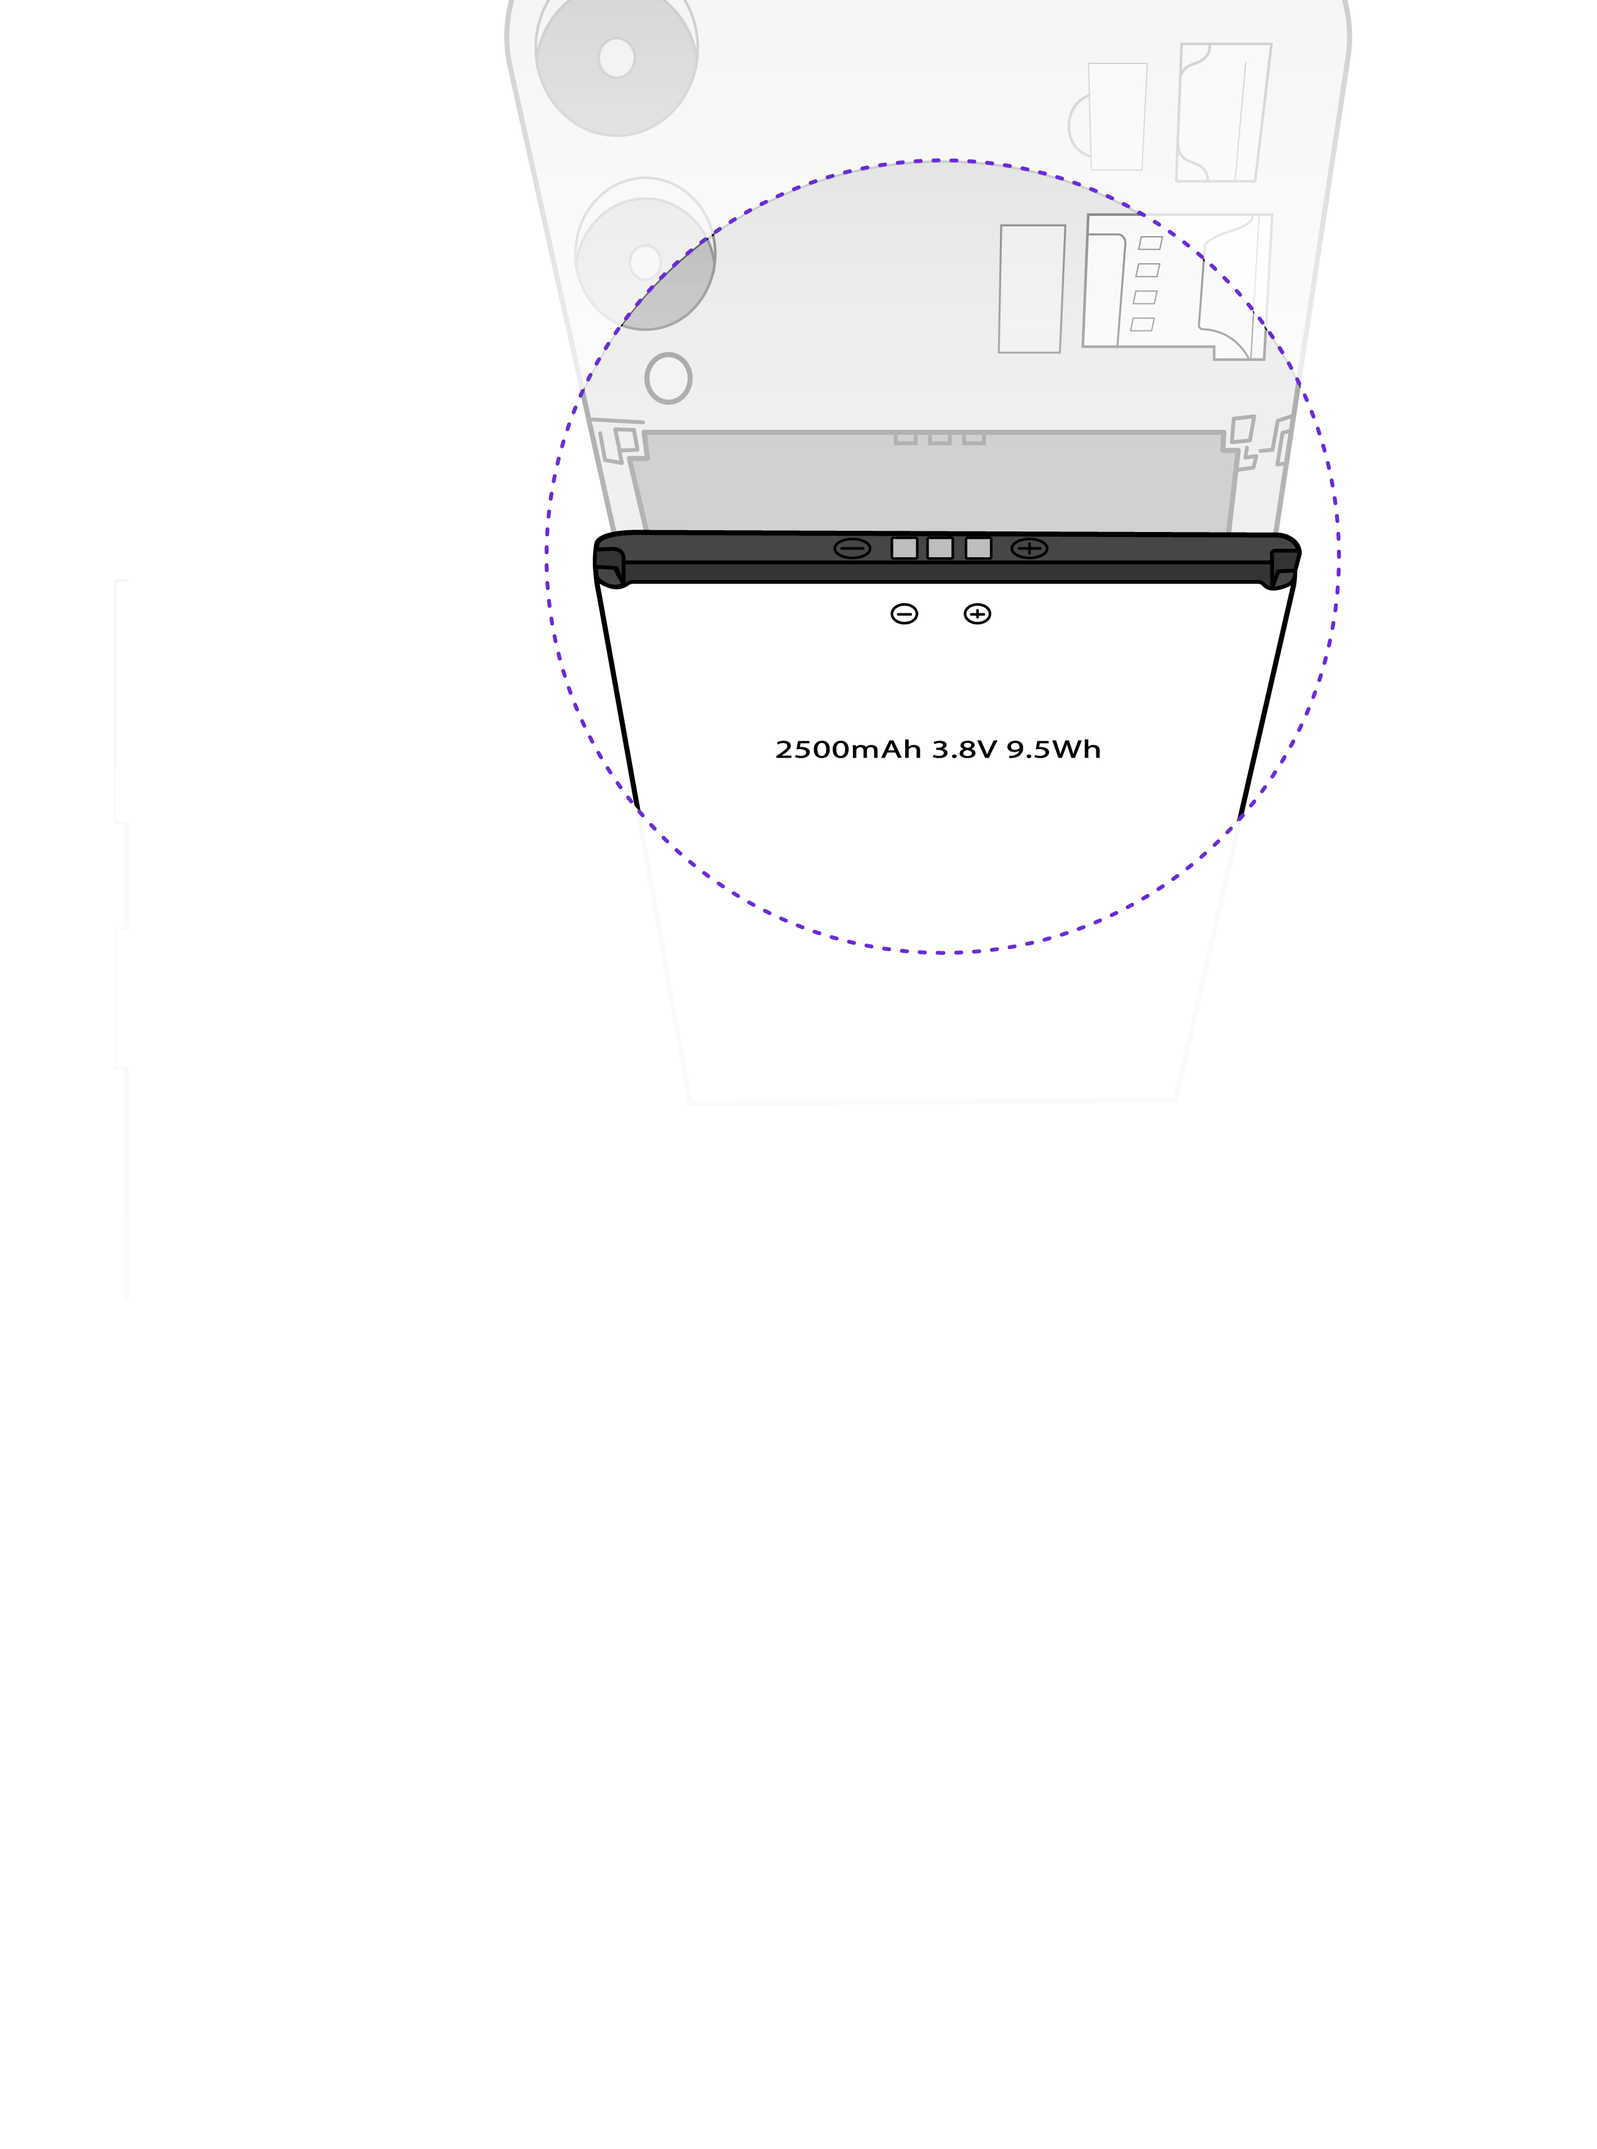
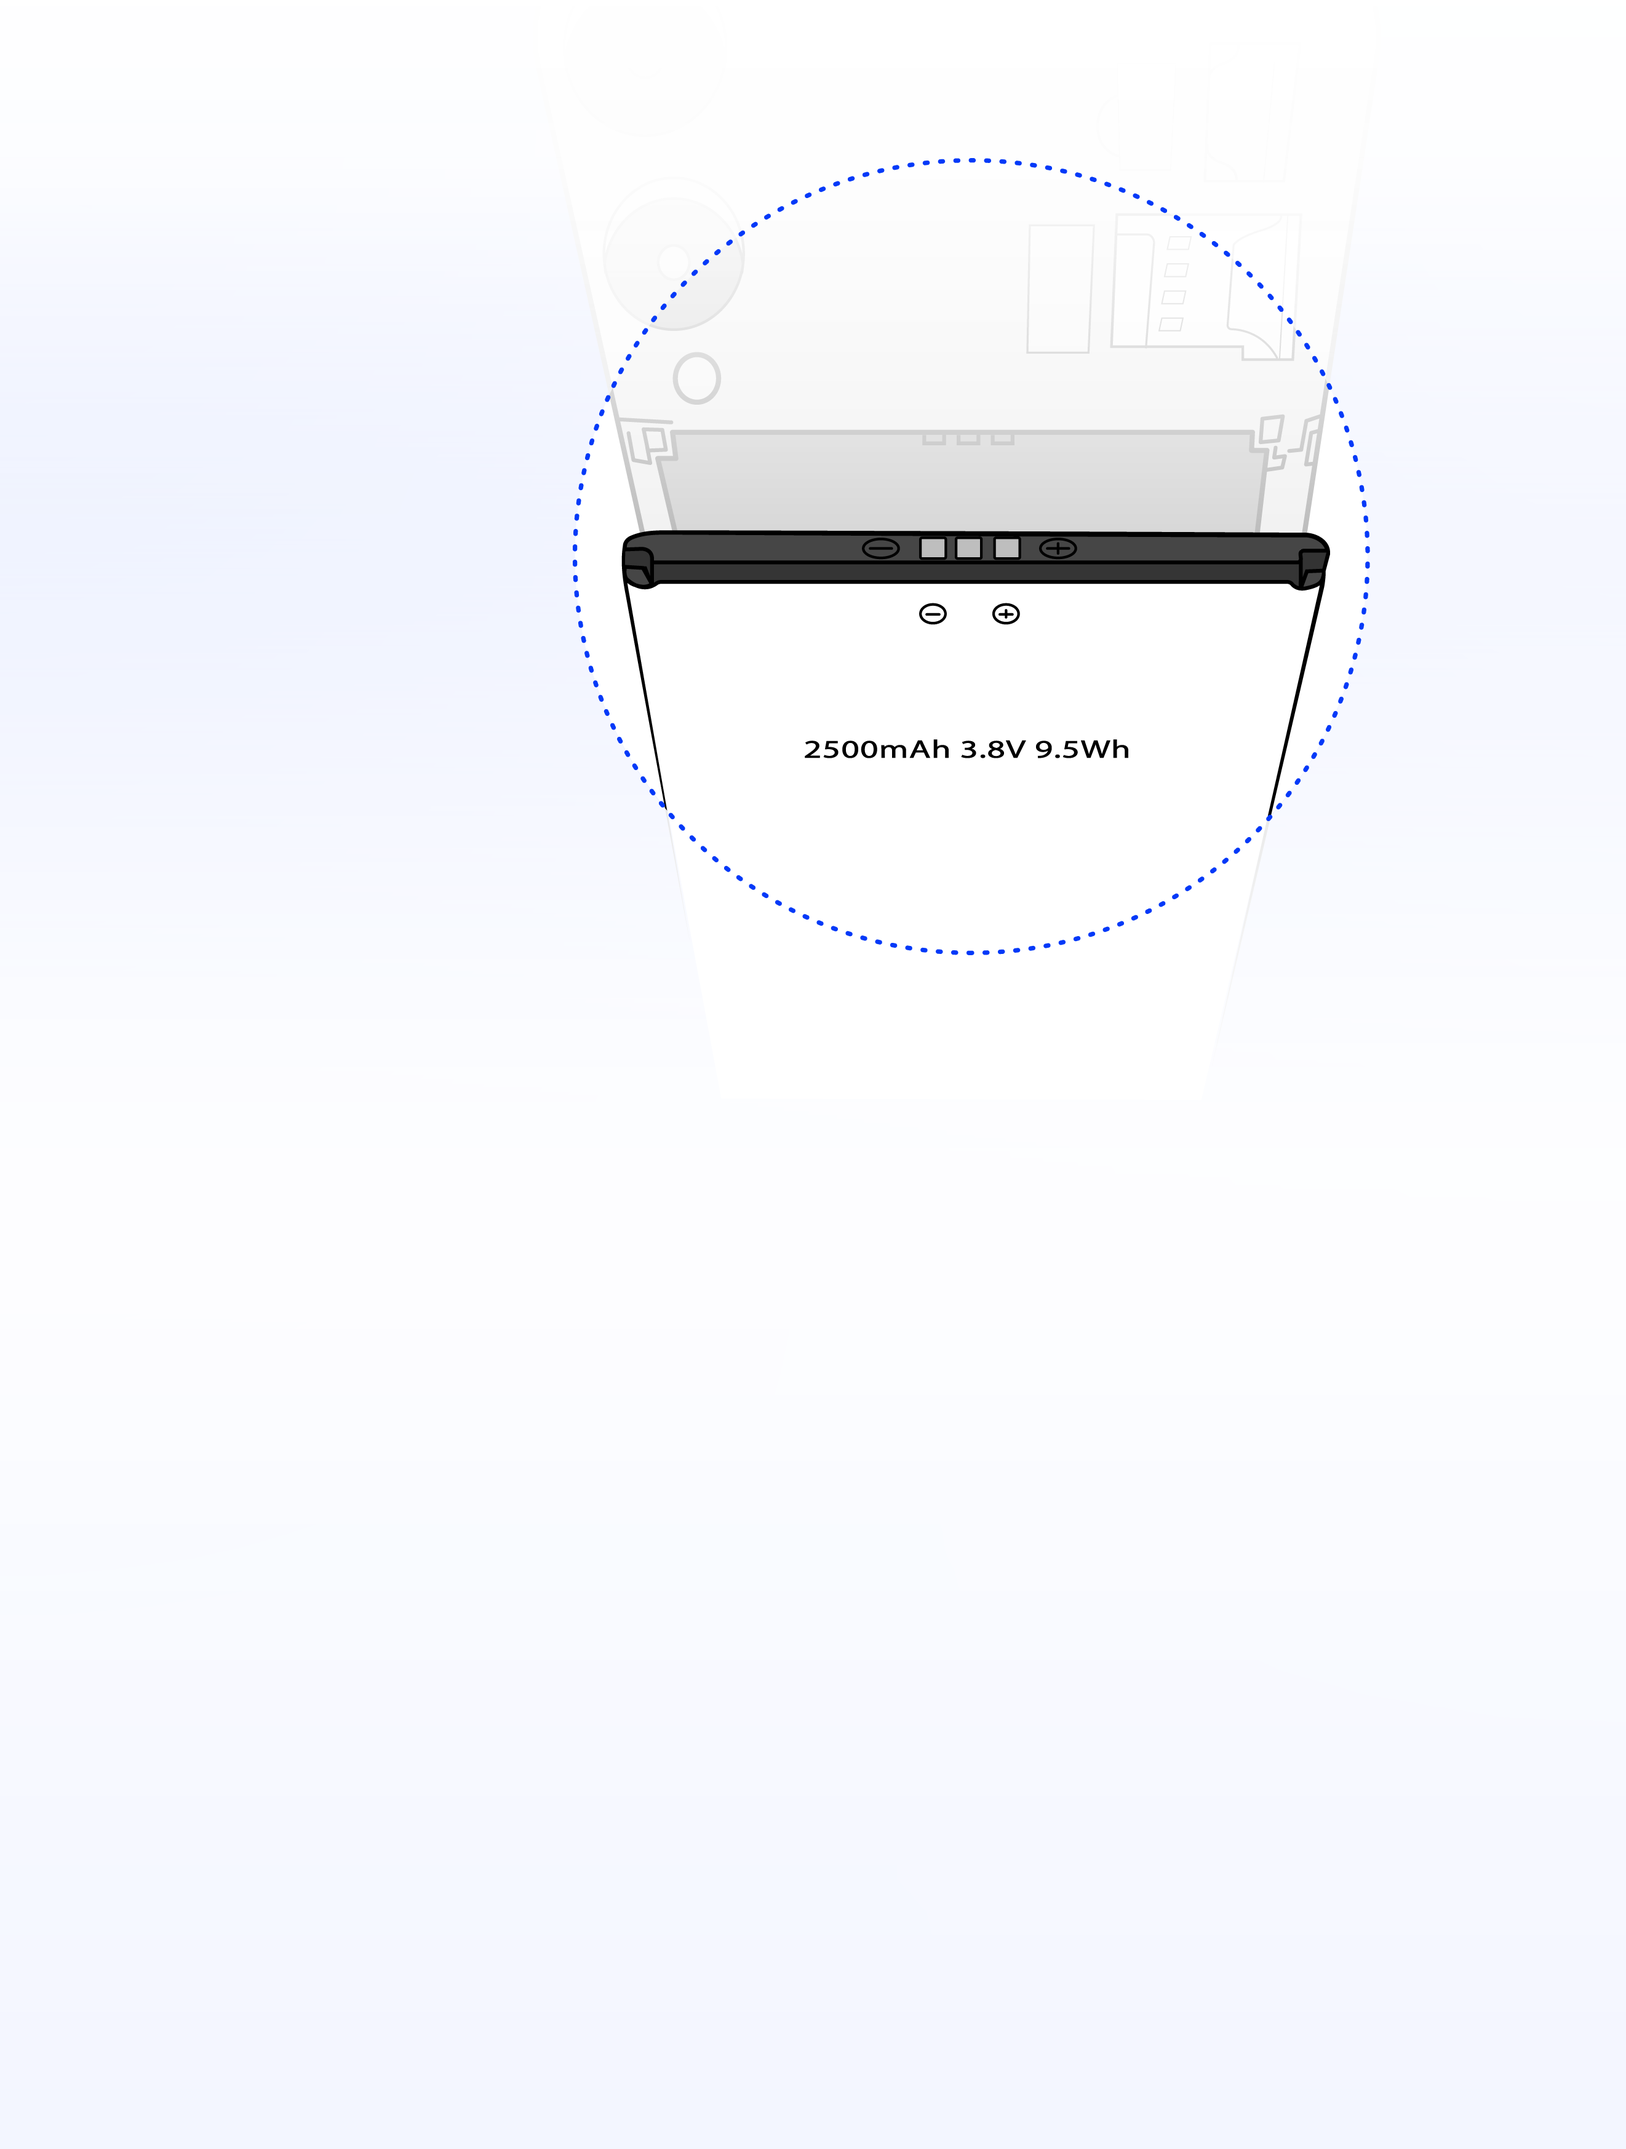
update features section content

diff --git a/css/style.css b/css/style.css
@@ -604,7 +604,7 @@ a {
 
 .drawing-container{
     position: relative;
-    height: 850px;
+    height: 1000px;
     margin-bottom: 100px;
     display: flex;
     justify-content: center;
@@ -613,24 +613,15 @@ a {
 .image-wrapper {
     position: relative; 
     display: inline-block;
-    height: 950px;
+    height: 1000px;
 }
 
 .engineering-drawing{
     height: 100%;
-    /* width: 100%; */
     display: block;
-}
-
-.circle {
-    position: absolute; /* Place the circle on the image */
-    width: 100px; /* Diameter of the circle */
-    height: 100px;
-    background-color: rgba(0, 0, 255, 0.5); /* Semi-transparent red */
-    border-radius: 50%; /* Makes it a perfect circle */
-    top: 5%; /* Adjust the vertical position relative to the image */
-    left: 48%; /* Adjust the horizontal position relative to the image */
-    border: none; /* Optional border */
+    /* margin: 0;
+    padding: 0;
+    border: none; */
 }
 
 .circle-svg {
@@ -643,4 +634,20 @@ a {
 
 .hover-content {
     display: none;
+}
+
+.hover-circle {
+    cursor: pointer;
+}
+
+.text-overlay {
+    position: absolute;
+    top: 50%;
+    left: 100px;
+    padding: 5px;
+}
+
+.feature-title{
+    font-size: 32px;
+    font-weight: 600;
 }

diff --git a/northlight.php b/northlight.php
@@ -65,7 +65,7 @@
                     <div class="row">
                         <div class="col-4 col-md-2 col-lg-2 col-xl-2 p-0">
                             <div class="highlight-wrap">
-                                <img src="img/phone/icons/icons_size.svg" alt="screen" class="highlight-icon">
+                                <img src="img/phone/icons/icons_size.svg" alt="android" class="highlight-icon">
                                 <div class="highlight-text">5.45" LCD</div>
                                 <div class="highlight-text">480 x 960</div>
                             </div>
@@ -111,41 +111,151 @@
         </div>
     </div>
 
-    <div style="padding-top: 30px;"></div>
+    <div style="padding-top: 50px;"></div>
 
     <div class="custom-container">
         <div class="drawing-container">
             <div class="image-wrapper">
                 <img src="img/phone/xray.png" alt="engineering drawing" class="engineering-drawing">
-                <!-- <div class="circle"></div> -->
-                <svg class="circle-svg" xmlns="http://www.w3.org/2000/svg" viewBox="0 0 100 100">
-                    <circle class="hover-circle" data-target="sim-card" cx="38" cy="35.5" r="3" fill="rgba(0, 0, 255, 0.2)" />
-                    <circle class="hover-circle" data-target="sd-card" cx="70" cy="20" r="10" fill="rgba(0, 0, 255, 0.2)" />
-                    <circle class="hover-circle" data-target="wifi" cx="50" cy="50" r="7" fill="rgba(0, 0, 255, 0.2)" />
-                </svg>
-            </div>
 
-            <!-- Slogan -->
-            <div class="image-wrapper" id="default-text">
-                <div class="d-flex align-items-center">
-                    <div class="heading">Affordable, Reliable, Simplicity at its Finest</div>
-                </div>
+                <svg class="circle-svg" xmlns="http://www.w3.org/2000/svg" viewBox="0 0 100 100">
+                    <circle class="hover-circle" data-target="sim-card" cx="35.5" cy="36.5" r="2" fill="rgba(3, 57, 248, 0.3)"/>
+                    <circle class="hover-circle" data-target="sim-card" cx="35.5" cy="36.5" r="0.7" fill="rgba(3, 57, 248, 0.7)"/>
+
+                    <circle class="hover-circle" data-target="usbc" cx="26" cy="66" r="2" fill="rgba(3, 57, 248, 0.3)"/>
+                    <circle class="hover-circle" data-target="usbc" cx="26" cy="66" r="0.7" fill="rgba(3, 57, 248, 0.7)"/>
+
+                    <circle class="hover-circle" data-target="battery" cx="57.2" cy="24.3" r="2" fill="rgba(3, 57, 248, 0.3)"/>
+                    <circle class="hover-circle" data-target="battery" cx="57.2" cy="24.3" r="0.7" fill="rgba(3, 57, 248, 0.7)"/>
+
+                    <circle class="hover-circle" data-target="microSD" cx="39.5" cy="32.3" r="2" fill="rgba(3, 57, 248, 0.3)"/>
+                    <circle class="hover-circle" data-target="microSD" cx="39.5" cy="32.3" r="0.7" fill="rgba(3, 57, 248, 0.7)"/>
+
+                    <circle class="hover-circle" data-target="case" cx="53" cy="9.5" r="2" fill="rgba(3, 57, 248, 0.3)"/>
+                    <circle class="hover-circle" data-target="case" cx="53" cy="9.5" r="0.7" fill="rgba(3, 57, 248, 0.7)"/>
+
+                    <circle class="hover-circle" data-target="android" cx="52.8" cy="89.5" r="2" fill="rgba(3, 57, 248, 0.3)"/>
+                    <circle class="hover-circle" data-target="android" cx="52.8" cy="89.5" r="0.7" fill="rgba(3, 57, 248, 0.7)"/>
+
+                    <circle class="hover-circle" data-target="3.5mm" cx="28" cy="61.5" r="2" fill="rgba(3, 57, 248, 0.3)"/>
+                    <circle class="hover-circle" data-target="3.5mm" cx="28" cy="61.5" r="0.7" fill="rgba(3, 57, 248, 0.7)"/>
+
+                    <circle class="hover-circle" data-target="chip" cx="37" cy="64.5" r="2" fill="rgba(3, 57, 248, 0.3)"/>
+                    <circle class="hover-circle" data-target="chip" cx="37" cy="64.5" r="0.7" fill="rgba(3, 57, 248, 0.7)"/>
+                </svg>
             </div>
 
             <!-- SIM Card -->
             <div class="image-wrapper hover-content" id="sim-card">
-                <img src="img/phone/DualSIMCard.png" alt="SIM card" class="engineering-drawing">
+                <img src="img/phone/dualSIM_card.png" alt="SIM card" class="engineering-drawing">
+                <div class="text-overlay">
+                    <div class="feature-title">Dual SIM Cards</div>
+                    <br>
+                    <p class="fw-bold">Simplified Travel</p>
+                    <p>Easily switch to a local SIM while traveling abroad.</p>
+                    <p class="fw-bold">Effortless Switching</p>
+                    <p>Manage two numbers seamlessly, perfect for work and personal use.</p>
+                    <p class="fw-bold">Cost Efficiency</p>
+                    <p>Saving on international calls, roaming, or data.</p>
+                </div>
             </div>
-            <div class="image-wrapper hover-content" id="sd-card">
-                <img src="img/phone/SD-card.png" alt="SD card" class="engineering-drawing">
+
+            <div class="image-wrapper hover-content" id="usbc">
+                <img src="img/phone/usb_c.png" alt="USB-C" class="engineering-drawing">
+                <div class="text-overlay">
+                    <div class="feature-title">USB Type-C</div>
+                    <br>
+                    <p class="fw-bold">Universal Compatibility</p>
+                    <p>Use one cable for multiple devices.</p>
+                    <p class="fw-bold">Reliable Charging</p>
+                    <p>Fast and efficient power delivery whenever you need it.</p>
+                    <p class="fw-bold">Simple Connectivity</p>
+                    <p>Reversible design makes plugging in hassle-free.</p>
+                </div>
             </div>
-            <div class="image-wrapper hover-content" id="wifi">
-                <img src="img/phone/wifi.png" alt="WiFi module" class="engineering-drawing">
+
+            <div class="image-wrapper hover-content" id="battery">
+                <img src="img/phone/battery.png" alt="Removable Battery" class="engineering-drawing">
+                <div class="text-overlay">
+                    <div class="feature-title">Removable Battery</div>
+                    <br>
+                    <p class="fw-bold">Easy Replacement</p>
+                    <p>Swap out the battery effortlessly for extended usage.</p>
+                    <p class="fw-bold">Practical Power Solution</p>
+                    <p>Extend your phone’s life by replacing the battery, not the phone.</p>
+                    <p class="fw-bold">User-Friendly Design</p>
+                    <p>Swap batteries quickly without special tools.</p>
+                </div>
+            </div>
+
+            <div class="image-wrapper hover-content" id="microSD">
+                <img src="img/phone/microSD_card.png" alt="microSD Card" class="engineering-drawing">
+                <div class="text-overlay">
+                    <div class="feature-title">microSD Card</div>
+                    <br>
+                    <p class="fw-bold">Affordable Expansion</p>
+                    <p>Increase storage without needing a pricier phone model.</p>
+                    <p class="fw-bold">Easy Upgrades</p>
+                    <p>Simply insert a card to get more space—no extra setup required.</p>
+                    <p class="fw-bold">Flexible Usage</p>
+                    <p>Store more photos, videos, and apps with ease.</p>
+                </div>
+            </div>
+
+            <div class="image-wrapper hover-content" id="case">
+                <img src="img/phone/phone_case.png" alt="case" class="engineering-drawing">
+                <div class="text-overlay">
+                    <div class="feature-title">Phone Case</div>
+                    <br>
+                    <p class="fw-bold">More Options Coming Soon…</p>
+                </div>
+            </div>
+
+            <div class="image-wrapper hover-content" id="android">
+                <img src="img/phone/android14.png" alt="Android 14" class="engineering-drawing">
+                <div class="text-overlay">
+                    <div class="feature-title">Android 14</div>
+                    <br>
+                    <p class="fw-bold">User-Friendly Experience</p>
+                    <p>Intuitive design makes it easy for anyone to pick up and use.</p>
+                    <p class="fw-bold">Dependable Security</p>
+                    <p>Advanced protections for worry-free use.</p>
+                    <p class="fw-bold">Tailored Simplicity</p>
+                    <p>Customize your phone to match your lifestyle.</p>
+                </div>
+            </div>
+
+            <div class="image-wrapper hover-content" id="3.5mm">
+                <img src="img/phone/headphone_jack.png" alt="3.5mm Headphone Jack" class="engineering-drawing">
+                <div class="text-overlay">
+                    <div class="feature-title">3.5mm Headphone Jack</div>
+                    <br>
+                    <p class="fw-bold">Simple Sound Solution</p>
+                    <p>Just plug and play — no adapters or pairing needed.</p>
+                    <p class="fw-bold">Consistent Quality</p>
+                    <p>Dependable audio performance every time.</p>
+                    <p class="fw-bold">Classic Convenience</p>
+                    <p>Trusted and familiar for seamless everyday use.</p>
+                </div>
+            </div>
+
+            <div class="image-wrapper hover-content" id="chip">
+                <img src="img/phone/chip.png" alt="Chip" class="engineering-drawing">
+                <div class="text-overlay">
+                    <div class="feature-title">Chip</div>
+                    <br>
+                    <p class="fw-bold">Reliable Performance</p>
+                    <p>MediaTek Quad-Core processor ensures smooth multitasking.</p>
+                    <p class="fw-bold">Responsive Experience</p>
+                    <p>Handles everyday tasks with speed and ease.</p>
+                    <p class="fw-bold">Trusted Quality</p>
+                    <p>Built in Taiwan by TSMC, a global leader in semiconductor technology.</p>
+                </div>
             </div>
         </div>
     </div>
 
-    <div style="padding-top: 30px;"></div>
+    <div style="padding-top: 50px;"></div>
 
 
     <?php include './inc/footer.php'; ?>
@@ -154,7 +264,7 @@
     <script>
         document.addEventListener('DOMContentLoaded', () => {
             const circles = document.querySelectorAll('.hover-circle'); // Select all circles
-            const defaultText = document.getElementById('default-text'); // Default text container
+            const defaultImage = document.getElementById('battery'); // Default image container
             const hoverContent = document.querySelectorAll('.hover-content'); // All hoverable image wrappers
 
             let currentTarget = null; // Track the currently displayed image's target ID
@@ -169,14 +279,14 @@
                     const targetElement = document.getElementById(targetId);
                     if (targetElement) targetElement.style.display = 'block';
 
-                    // Hide the default text
-                    defaultText.style.display = 'none';
+                    // Hide the default image
+                    // defaultImage.style.display = 'none';
 
                     // Update the current visible target
                     currentTarget = targetId;
                 } else {
-                    // No target clicked: show default text and hide everything else
-                    defaultText.style.display = 'flex';
+                    // No target clicked: show default image and hide everything else
+                    defaultImage.style.display = 'block';
                     currentTarget = null;
                 }
             }
@@ -187,12 +297,12 @@
 
                 // On click, show the corresponding content
                 circle.addEventListener('click', () => {
-                        showContent(targetId);
+                    showContent(targetId);
                 });
             });
 
             // Set default state on page load
-            showContent(null); // Show the default text
+            showContent(null); // Show the default image
         });
     </script>
 
